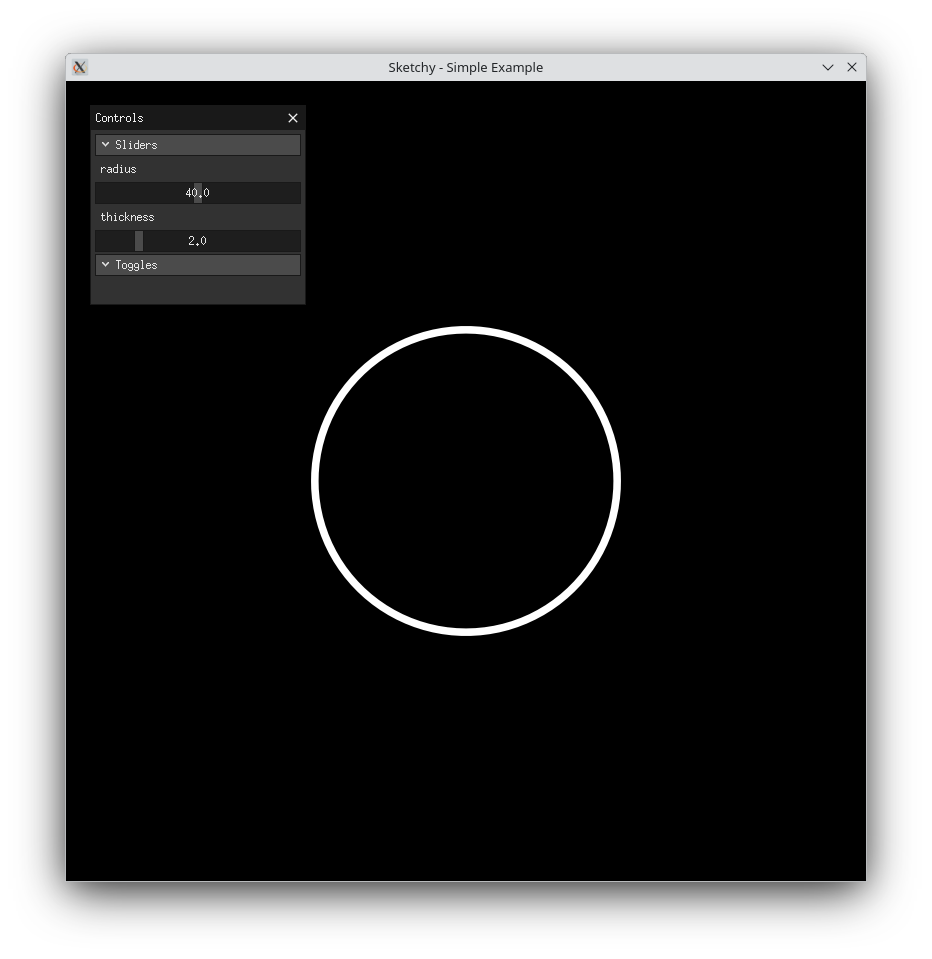
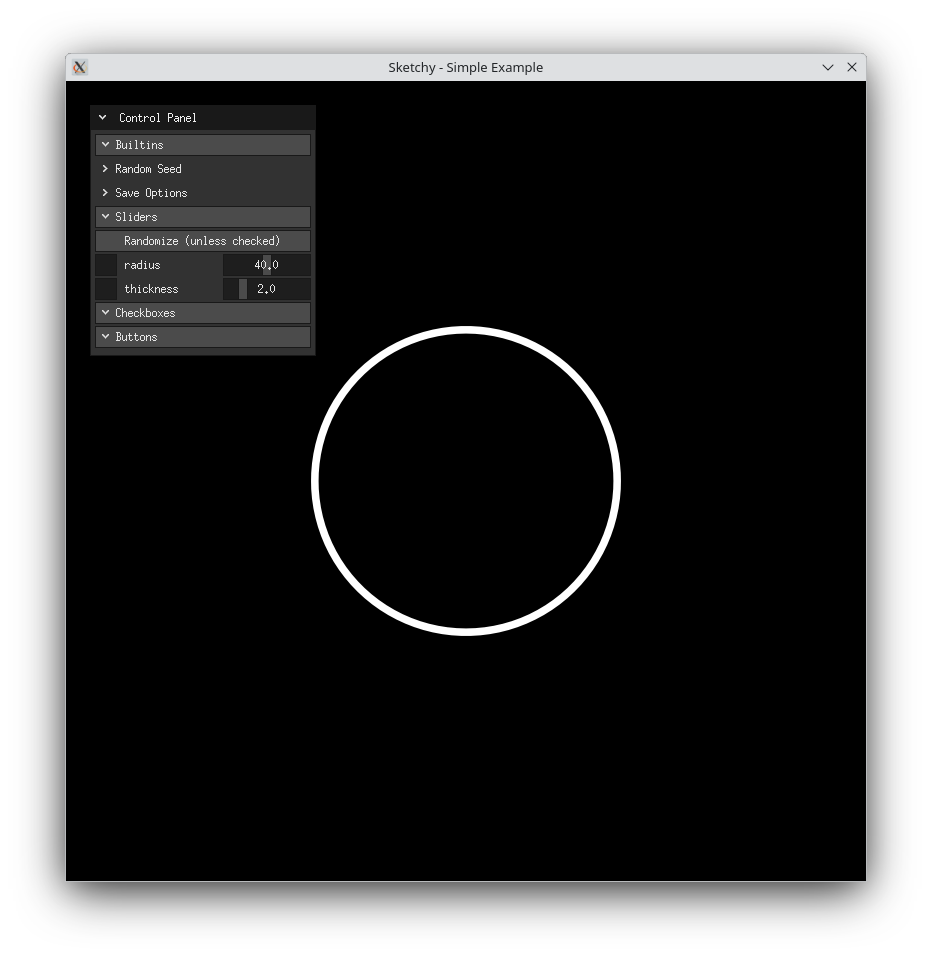
use new debugui functionality, update screenshots

Changed region(s): [[0.0933, 0.0907, 0.3423, 0.3931]]

diff --git a/sketch.go b/sketch.go
@@ -161,22 +161,13 @@ func (s *Sketch) UpdateControls() {
 		s.saveConfig()
 	}
 	if inpututil.IsKeyJustReleased(ebiten.KeyUp) {
-		s.RandomSeed++
-		s.Rand.SetSeed(s.RandomSeed)
-		s.DidControlsChange = true
-		fmt.Println("RandomSeed incremented: ", s.RandomSeed)
+		s.incrementRandomSeed()
 	}
 	if inpututil.IsKeyJustReleased(ebiten.KeyDown) {
-		s.RandomSeed--
-		s.Rand.SetSeed(s.RandomSeed)
-		s.DidControlsChange = true
-		fmt.Println("RandomSeed decremented: ", s.RandomSeed)
+		s.decrementRandomSeed()
 	}
 	if inpututil.IsKeyJustReleased(ebiten.KeySlash) {
-		s.RandomSeed = rand.Int63()
-		s.Rand.SetSeed(s.RandomSeed)
-		s.DidControlsChange = true
-		fmt.Println("RandomSeed changed: ", s.RandomSeed)
+		s.randomizeRandomSeed()
 	}
 	if inpututil.IsKeyJustReleased(ebiten.KeyD) {
 		s.DumpState()
@@ -226,11 +217,11 @@ func (s *Sketch) Layout(
 }
 
 func (s *Sketch) Update() error {
-	s.UpdateControls()
-	s.Updater(s)
 	s.ui.Update(func(ctx *debugui.Context) {
 		s.controlWindow(ctx)
 	})
+	s.UpdateControls()
+	s.Updater(s)
 	s.Tick++
 	return nil
 }
@@ -320,6 +311,10 @@ func (s *Sketch) RandomHeight() float64 {
 	return rand.Float64() * s.Height()
 }
 
+func (s *Sketch) IsMouseOverControlPanel() bool {
+	return s.ui.IsCapturingInput()
+}
+
 func (s *Sketch) buildMaps() {
 	s.sliderControlMap = make(map[string]int)
 	for i := range s.Sliders {
@@ -348,4 +343,25 @@ func (s *Sketch) getSketchImageRect() image.Rectangle {
 	right := int(s.SketchWidth)
 	bottom := int(s.SketchHeight)
 	return image.Rect(0, 0, right, bottom)
+}
+
+func (s *Sketch) decrementRandomSeed() {
+	s.RandomSeed--
+	s.Rand.SetSeed(s.RandomSeed)
+	s.DidControlsChange = true
+	fmt.Println("RandomSeed decremented: ", s.RandomSeed)
+}
+
+func (s *Sketch) incrementRandomSeed() {
+	s.RandomSeed++
+	s.Rand.SetSeed(s.RandomSeed)
+	s.DidControlsChange = true
+	fmt.Println("RandomSeed incremented: ", s.RandomSeed)
+}
+
+func (s *Sketch) randomizeRandomSeed() {
+	s.RandomSeed = rand.Int63()
+	s.Rand.SetSeed(s.RandomSeed)
+	s.DidControlsChange = true
+	fmt.Println("RandomSeed changed: ", s.RandomSeed)
 }

diff --git a/visual_tests/kdtree_mouse/kdtree_mouse.go b/visual_tests/kdtree_mouse/kdtree_mouse.go
@@ -24,20 +24,20 @@ func update(s *sketchy.Sketch) {
 		count = 0
 	}
 	nearestPoints = []gaul.IndexPoint{}
-	if inpututil.IsMouseButtonJustReleased(ebiten.MouseButtonLeft) {
+	if !s.IsMouseOverControlPanel() && inpututil.IsMouseButtonJustReleased(ebiten.MouseButtonLeft) {
 		x, y := ebiten.CursorPosition()
 		if s.PointInSketchArea(float64(x), float64(y)) {
 			p := s.CanvasCoords(float64(x), float64(y))
 			kdtree.Insert(p.ToIndexPoint(count))
 			count++
 		}
-	} else {
-		x, y := ebiten.CursorPosition()
-		if s.PointInSketchArea(float64(x), float64(y)) {
-			p := s.CanvasCoords(float64(x), float64(y))
-			nearestPoints = kdtree.NearestNeighbors(p.ToIndexPoint(-1), int(s.Slider("Closest Neighbors")))
-		}
 	}
+	x, y := ebiten.CursorPosition()
+	if s.PointInSketchArea(float64(x), float64(y)) {
+		p := s.CanvasCoords(float64(x), float64(y))
+		nearestPoints = kdtree.NearestNeighbors(p.ToIndexPoint(-1), int(s.Slider("Closest Neighbors")))
+	}
+
 }
 
 func draw(s *sketchy.Sketch, c *canvas.Context) {

diff --git a/visual_tests/quadtree_mouse/quadtree_mouse.go b/visual_tests/quadtree_mouse/quadtree_mouse.go
@@ -24,20 +24,20 @@ func update(s *sketchy.Sketch) {
 		count = 0
 	}
 	nearestPoints = []gaul.IndexPoint{}
-	if inpututil.IsMouseButtonJustReleased(ebiten.MouseButtonLeft) {
+	if !s.IsMouseOverControlPanel() && inpututil.IsMouseButtonJustReleased(ebiten.MouseButtonLeft) {
 		x, y := ebiten.CursorPosition()
 		if s.PointInSketchArea(float64(x), float64(y)) {
 			p := s.CanvasCoords(float64(x), float64(y))
 			qt.Insert(p.ToIndexPoint(count))
 			count++
 		}
-	} else {
-		x, y := ebiten.CursorPosition()
-		if s.PointInSketchArea(float64(x), float64(y)) {
-			p := s.CanvasCoords(float64(x), float64(y))
-			nearestPoints = qt.NearestNeighbors(p.ToIndexPoint(-1), int(s.Slider("Closest Neighbors")))
-		}
 	}
+	x, y := ebiten.CursorPosition()
+	if s.PointInSketchArea(float64(x), float64(y)) {
+		p := s.CanvasCoords(float64(x), float64(y))
+		nearestPoints = qt.NearestNeighbors(p.ToIndexPoint(-1), int(s.Slider("Closest Neighbors")))
+	}
+
 }
 
 func draw(s *sketchy.Sketch, c *canvas.Context) {

diff --git a/controls.go b/controls.go
@@ -105,13 +105,13 @@ func (s *Sketch) controlWindow(ctx *debugui.Context) {
 				ctx.Label(fmt.Sprintf("Seed: %d", s.RandomSeed))
 				ctx.SetLayoutRow([]int{40, 40, 40}, 0)
 				if ctx.Button("Decr") != 0 {
-					s.RandomSeed--
+					s.decrementRandomSeed()
 				}
 				if ctx.Button("Incr") != 0 {
-					s.RandomSeed++
+					s.incrementRandomSeed()
 				}
 				if ctx.Button("Rand") != 0 {
-					s.RandomSeed = rand.Int63()
+					s.randomizeRandomSeed()
 				}
 			})
 			ctx.TreeNode("Save Options", func(res debugui.Response) {
